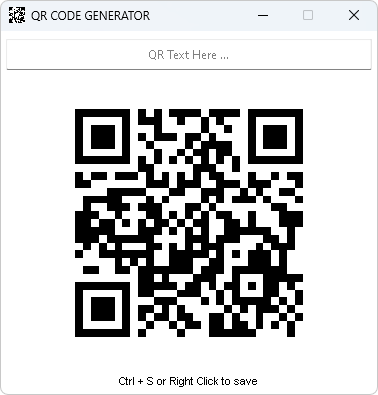
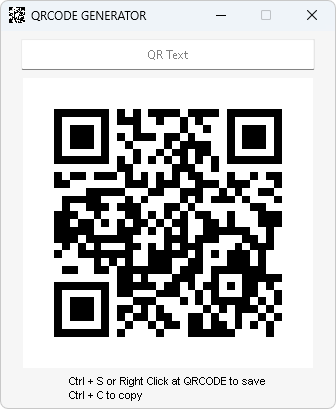
Updated UI Copying QR code to clipboard functionality added

diff --git a/PROJECT GUIs/QRCODE GENERATOR/qrcode_generator.py b/PROJECT GUIs/QRCODE GENERATOR/qrcode_generator.py
@@ -1,25 +1,28 @@
 import os
 import io
 import sys
+import subprocess
 from tkinter import *
 import tkinter.ttk as ttk
 from tkinter.font import Font
 from tkinter import filedialog
 from tkinter import messagebox
 import qrcode
+import win32clipboard
 from PIL import Image, ImageTk
 
 
 class QRCODE_GENERATOR:
     def __init__(self):
-        self.DEFAULT_TEXT = 'QR Text Here ...'
+        self.bg_color = '#F6F6F6'
+        self.DEFAULT_TEXT = 'QR Text'
         self.QR_DEFAULT_TEXT = 'https://github.com/ghanteyyy'
         self.ClearedDefault = False  # Track if user have inserted data
 
         self.master = Tk()
         self.master.withdraw()
-        self.master.config(bg='white')
-        self.master.title('QR CODE GENERATOR')
+        self.master.config(bg=self.bg_color)
+        self.master.title('QRCODE GENERATOR')
 
         self.IconImage = PhotoImage(file=self.ResourcePath('icon.png'))
         self.master.iconphoto(None, self.IconImage)
@@ -31,13 +34,13 @@ class QRCODE_GENERATOR:
         self.message_box_var.set(self.DEFAULT_TEXT)
         self.message_box_var.trace('w', self.trace_var)
 
-        self.message_box = ttk.Entry(self.master, width=60, textvariable=self.message_box_var, style='MB.TEntry', justify='center')
-        self.message_box.pack(padx=5, ipady=5, pady=8)
+        self.message_box = ttk.Entry(self.master, width=48, textvariable=self.message_box_var, style='MB.TEntry', justify='center')
+        self.message_box.pack(padx=20, ipady=5, pady=8)
 
         self.qr_label = Label(self.master, bd=0)
         self.qr_label.pack()
 
-        self.info_label = Label(self.master, bd=0, fg='black', bg='white', text='Ctrl + S or Right Click to save', font=Font(size=8))
+        self.info_label = Label(self.master, bd=0, fg='black', bg=self.bg_color, text='Ctrl + S or Right Click at QRCODE to save\nCtrl + C to copy', font=Font(size=8), justify='left')
         self.info_label.pack(side=BOTTOM, ipady=5)
 
         self.make_QR(self.QR_DEFAULT_TEXT)
@@ -45,9 +48,10 @@ class QRCODE_GENERATOR:
 
         self.master.bind('<Button-1>', self.focus_here)
         self.message_box.bind('<FocusIn>', self.focus_in)
+        self.qr_label.bind('<Button-3>', self.RightClick)
         self.message_box.bind('<FocusOut>', self.focus_out)
         self.master.bind_all('<Control-s>', self.SaveImage)
-        self.master.bind_all('<Button-3>', self.RightClick)
+        self.master.bind_all('<Control-c>', self.CopyImage)
 
         self.master.mainloop()
 
@@ -125,6 +129,27 @@ class QRCODE_GENERATOR:
 
         if path:  # Save image only when user have given valid location
             self.img.save(path)
+
+    def CopyImage(self, event=None):
+        '''Copy image to clipboard'''
+
+        memory = io.BytesIO()
+        self.img.convert('RGB').save(memory, format='BMP')
+
+        if sys.platform == 'win32':
+            data = memory.getvalue()[14:]
+
+            win32clipboard.OpenClipboard()
+            win32clipboard.EmptyClipboard()
+            win32clipboard.SetClipboardData(win32clipboard.CF_DIB, data)
+            win32clipboard.CloseClipboard()
+
+        else:
+            # I do not have a linux machine so I have no idea if the
+            # following code works in linux. Hope it works for linux
+            output = subprocess.Popen(("xclip", "-selection", "clipboard", "-t", "image/png", "-i"), stdin=subprocess.PIPE)
+            output.stdin.write(memory.getvalue())  # write image to stdin
+            output.stdin.close()
 
     def RightClick(self, event=None):
         '''When user right clicks to QR image'''
